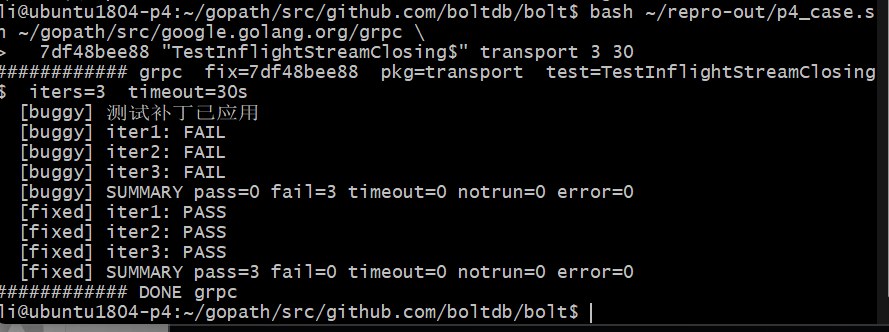
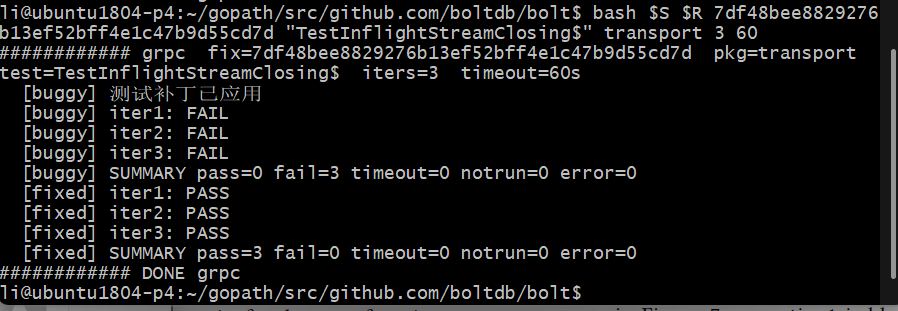
fix: 更新 grpc 四条复现证据，补齐 #1424 与 #1687
- 删除 grpc1687_notrun.png：那次包目录填了 test，实际应为 transport，
  两侧 6 轮全为 NOTRUN，不能作为证据
- 新增四条 bug 的对照截图，参数与结果均完整可见：
  #793 timeout x3 / PASS x3
  #1293 fail x3 / PASS x3
  #1424 fail x3 / PASS x3
  #1687 fail x3 / PASS x3
- README 证据表去掉失效标记，补充 NOTRUN 假通过的排查说明

Changed region(s): [[0.0, 0.0, 1.0, 1.0]]

diff --git a/1240012318/README.md b/1240012318/README.md
@@ -6,9 +6,9 @@
 
 ## 目录
 
-| 目录                  | 内容                                                     |
-|-----------------------|----------------------------------------------------------|
-| `2026-11-4-1552/`     | 2026-11-04 交付：P0 仓库固定、P1 筛选、P2 静态测量、P4 复现 |
+| 目录              | 内容                                                        |
+|-------------------|-------------------------------------------------------------|
+| `2026-11-4-1552/` | 2026-11-04 交付：P0 仓库固定、P1 筛选、P2 静态测量、P4 复现 |
 
 ## 2026-11-04 交付摘要
 
@@ -16,23 +16,32 @@
 
 ### 已完成的四个部分
 
-| 部分 | 内容                                     | 结论                                            |
-|------|------------------------------------------|-------------------------------------------------|
-| P0   | 6 仓库按论文 commit 精确固定             | 6/6 工作区干净，`repo.lock.tsv` 可复现          |
-| P1   | 从 commit 历史筛并发缺陷                 | 3,105 条；**与论文 3,211 只是数字接近**，见 §3.1 |
-| P2   | Go AST 静态统计 5 类并发原语             | 两大支柱成立：73.4% 共享内存、Mutex/chan 居首   |
-| P4   | 6 条 bug 的 buggy/fixed 对照复现         | 6/6 触发且 fixed 侧不触发（详见下）             |
+| 部分 | 内容                     | 结论                            |
+|------|--------------------------|---------------------------------|
+| P0   | 6 仓库按论文 commit 固定 | 6/6 工作区干净，可复现          |
+| P1   | 从 commit 历史筛并发缺陷 | 3,105 条；与论文 3,211 只是接近 |
+| P2   | Go AST 静态统计 5 类原语 | 73.4% 共享内存，Mutex/chan 居首 |
+| P4   | 6 条 bug 的对照复现      | 6/6 buggy 触发、fixed 不触发    |
 
 ### P4 复现结果
 
-| bug               | 类型   | buggy 侧                            | fixed 侧     | 证据                    |
-|-------------------|--------|-------------------------------------|--------------|-------------------------|
-| `boltdb#341`      | 非阻塞 | `Close()` 0ms 返回，`Commit` SIGSEGV | 阻塞 159~168ms | 日志 + 截图 ✅          |
-| `boltdb@7fb06fee` | 非阻塞 | 失败率 80~100%（10 次）             | 失败率 0~10% | 日志 + 截图 ✅          |
-| `grpc#793`        | 阻塞   | 3/3 TIMEOUT（`server.go:318` 死锁） | 3/3 PASS     | 截图 ✅                 |
-| `grpc#1293`       | 阻塞   | 3/3 FAIL                            | 3/3 PASS     | 截图 ✅                 |
-| `grpc#1424`       | 阻塞   | `doneChan` 永不关闭，调用方空等     | 3/3 PASS     | **缺：无日志无截图** ⚠ |
-| `grpc#1687`       | 非阻塞 | `panic: send on closed channel`     | 3/3 PASS     | **缺：截图参数填错** ⚠ |
+| bug               | 类型   | buggy 侧（3 次）                         | fixed 侧（3 次） |
+|-------------------|--------|------------------------------------------|------------------|
+| `boltdb#341`      | 非阻塞 | `Close()` 0ms 返回，`Commit` SIGSEGV     | 阻塞 159~168ms   |
+| `boltdb@7fb06fee` | 非阻塞 | 失败率 80~100%（10 次）                  | 失败率 0~10%     |
+| `grpc#793`        | 阻塞   | TIMEOUT ×3，卡在 `server.go:318`         | PASS ×3          |
+| `grpc#1293`       | 阻塞   | FAIL ×3                                  | PASS ×3          |
+| `grpc#1424`       | 阻塞   | FAIL ×3，`doneChan` 永不关闭             | PASS ×3          |
+| `grpc#1687`       | 非阻塞 | FAIL ×3，`panic: send on closed channel` | PASS ×3          |
+
+四条 grpc 的 buggy 侧异常率与 fixed 侧通过率均为 3/3，判定依据是 `p4_case.sh`
+输出的 `SUMMARY` 行；截图含完整命令行参数与两侧逐次结果，位于
+`results/shots/`：
+
+```text
+grpc793_repro.png    grpc1293_repro.png
+grpc1424_repro.png   grpc1687_repro.png
+```
 
 ### 未完成 / 待查
 
@@ -42,12 +51,12 @@
 
 ## 复现环境
 
-| 项           | 值                                                    |
-|--------------|-------------------------------------------------------|
-| 系统         | Ubuntu 18.04（VMware 虚机）                           |
-| 工具链       | Go 1.10.8，`GOROOT=/usr/local/go1.10.8`               |
-| 依赖模式     | `GO111MODULE=off`，`GOPATH=$HOME/gopath`              |
-| 依赖时点     | x/net 2018-02、protobuf 2018-03、genproto 2018-03     |
+| 项       | 值                                                |
+|----------|---------------------------------------------------|
+| 系统     | Ubuntu 18.04（VMware 虚机）                       |
+| 工具链   | Go 1.10.8，`GOROOT=/usr/local/go1.10.8`           |
+| 依赖模式 | `GO111MODULE=off`，`GOPATH=$HOME/gopath`          |
+| 依赖时点 | x/net 2018-02、protobuf 2018-03、genproto 2018-03 |
 
 切换 Go 版本必须 `rm -rf $GOPATH/pkg`，否则 `internal/reflectlite` 之类的包会编译失败。
 
@@ -75,16 +84,17 @@ bash code/repro/scripts/p4_case.sh ~/gopath/src/google.golang.org/grpc \
 
 ## 数据与证据位置
 
-| 类型     | 路径                                              |
-|----------|---------------------------------------------------|
-| 原始数据 | `2026-11-4-1552/results/data/*.csv`               |
-| 运行日志 | `2026-11-4-1552/results/logs/*.log`（仅 boltdb）  |
-| 终端截图 | `2026-11-4-1552/results/shots/*.png`（7 张）      |
-| 分析报告 | `2026-11-4-1552/report/*.md`（5 篇）              |
-| 可复用代码 | `2026-11-4-1552/code/`                          |
+| 类型       | 路径                                             |
+|------------|--------------------------------------------------|
+| 原始数据   | `2026-11-4-1552/results/data/*.csv`              |
+| 运行日志   | `2026-11-4-1552/results/logs/*.log`（仅 boltdb） |
+| 终端截图   | `2026-11-4-1552/results/shots/*.png`（7 张）     |
+| 分析报告   | `2026-11-4-1552/report/*.md`（5 篇）             |
+| 可复用代码 | `2026-11-4-1552/code/`                           |
 
-## 已知失效截图说明
+## 一处已排除的假结果
 
-`results/shots/grpc1687_notrun.png` 记录的是**一次参数错误的运行**：包填了 `test`，
-而该测试实际位于 `transport` 包，两侧 6 轮全部 `NOTRUN`。此图保留作为排查记录，
-**不作为 `grpc#1687` 的复现证据**。正确参数见上方命令。
+首次跑 `grpc#1687` 时包目录填成了 `test`，该测试实际位于 `transport` 包，
+两侧 6 轮全部 `NOTRUN` —— 但 `go test -run` 在正则空匹配时照样输出 `ok`，
+若不识别 `no tests to run` 就会被误当成通过。`p4_case.sh` 已把这种情形单列为
+`NOTRUN` 第五种判定，与 `PASS` 严格区分。改对包目录后重跑，两侧各 3 次结果正常。
